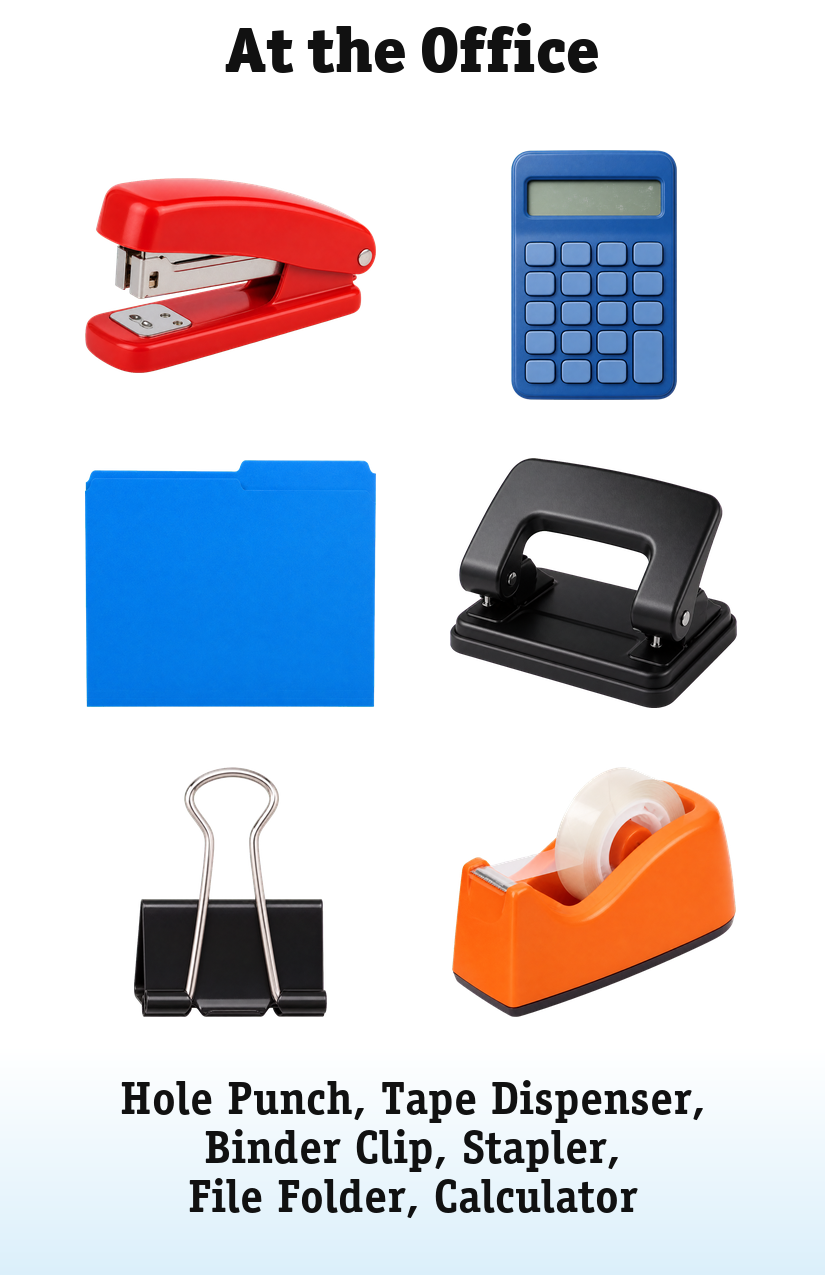
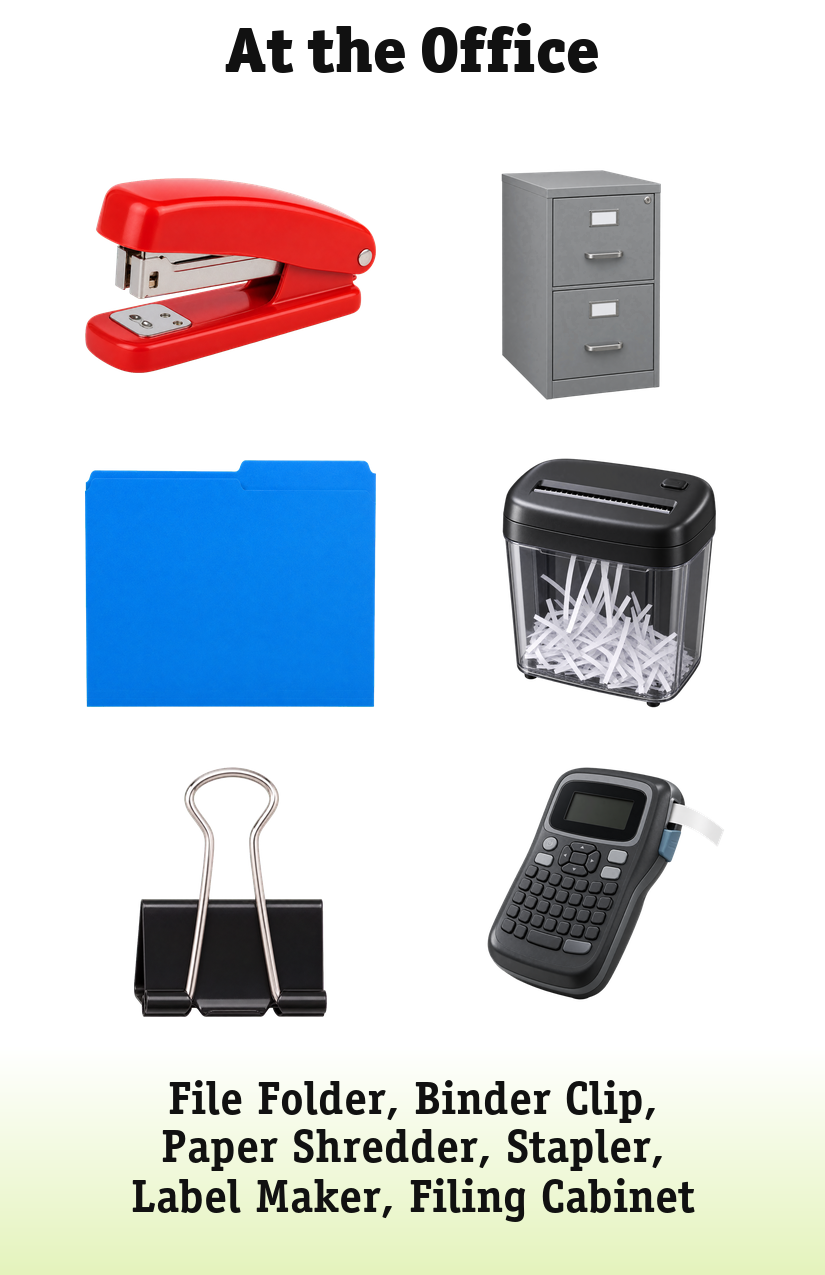
Commit in-progress Picture This edits and sync the landing page
Working-tree changes committed as they stood so the branch can take a
merge from org/main — the uncommitted files were blocking the pull
outright, before any content conflict came into it.

Picture This game/link/question data and pages 085/086 are the ongoing
card rebuild. index.html here already matched org/main byte for byte.

Claude-Session: https://claude.ai/code/session_019uNjeWfsbS5W4spBhMEGyB

Changed region(s): [[0.0, 0.8259, 1.0, 1.0], [0.5455, 0.0918, 0.9091, 0.5506], [0.5455, 0.5812, 0.9091, 0.7953]]

diff --git a/picture-this/game-data.js b/picture-this/game-data.js
@@ -338,11 +338,11 @@ window.PICTURE_THIS_GAME_DATA = {
   ],
   "at-the-office": [
     "Stapler",
-    "Calculator",
+    "Filing Cabinet",
     "File Folder",
-    "Hole Punch",
+    "Paper Shredder",
     "Binder Clip",
-    "Tape Dispenser"
+    "Label Maker"
   ],
   "under-the-sea": [
     "Dolphin",
@@ -1406,6 +1406,74 @@ window.PICTURE_THIS_GAME_DATA = {
 window.PICTURE_THIS_GAME_META = {
   "schema_version": 1,
   "cards": {
+    "at-the-office": {
+      "title": "At the Office",
+      "category_answers": [
+        "At the Office",
+        "Office Equipment",
+        "Office Supplies"
+      ],
+      "tags": [
+        "office",
+        "work",
+        "paper"
+      ],
+      "items": [
+        {
+          "id": "stapler",
+          "label": "Stapler",
+          "answers": ["Stapler"]
+        },
+        {
+          "id": "filing-cabinet",
+          "label": "Filing Cabinet",
+          "answers": ["Filing Cabinet", "File Cabinet"]
+        },
+        {
+          "id": "file-folder",
+          "label": "File Folder",
+          "answers": ["File Folder", "Folder"]
+        },
+        {
+          "id": "paper-shredder",
+          "label": "Paper Shredder",
+          "answers": ["Paper Shredder", "Shredder"]
+        },
+        {
+          "id": "binder-clip",
+          "label": "Binder Clip",
+          "answers": ["Binder Clip"]
+        },
+        {
+          "id": "label-maker",
+          "label": "Label Maker",
+          "answers": ["Label Maker", "Labelling Machine", "Labeling Machine"]
+        }
+      ],
+      "links": [
+        {
+          "word": "fasteners",
+          "answers": ["fasteners", "fastener", "fastening"],
+          "items": ["stapler", "binder-clip"],
+          "explanation": "The stapler and binder clip are the only two office items shown specifically made to fasten sheets of paper together.",
+          "audit": "exclusive-among-six-v1"
+        },
+        {
+          "word": "filing",
+          "answers": ["filing", "file"],
+          "items": ["filing-cabinet", "file-folder"],
+          "explanation": "The filing cabinet and file folder are the only two items shown specifically made for filing documents.",
+          "audit": "exclusive-among-six-v1"
+        },
+        {
+          "word": "electric",
+          "answers": ["electric", "powered"],
+          "items": ["paper-shredder", "label-maker"],
+          "explanation": "The paper shredder and label maker are the only two electrically powered office machines shown.",
+          "audit": "exclusive-among-six-v1"
+        }
+      ]
+    },
     "houseplants": {
       "title": "Houseplants",
       "category_answers": [

diff --git a/picture-this/link-data.js b/picture-this/link-data.js
@@ -97,7 +97,7 @@ window.PICTURE_THIS_LINK_DATA = {
     pictureThisLink("screening", [0,5], "The suitcase and metal detector are the only two items shown directly joined in baggage screening.", ["security"]),
     pictureThisLink("luggage", [0,3], "The suitcase and luggage cart are the only two items shown directly joined by luggage transport.", ["baggage"])
   ],
-  "at-the-office": [pictureThisLink("piercing", [0,3], "The stapler and hole punch are the only two tools shown that pierce paper during normal use.", ["pierce", "puncturing"])],
+  "at-the-office": [],
   "under-the-sea": [
     pictureThisLink("tentacles", [2,4], "The octopus and jellyfish are the only two animals shown with tentacles.", ["tentacle"]),
     pictureThisLink("spines", [3,5], "The seahorse and starfish are the only two animals shown with hard, visibly spiny body surfaces.", ["spiny"])
@@ -392,10 +392,7 @@ const auditedLinkAdditions = {
     pictureThisLink("curls", [4,5], "Hair rollers and curling iron are the only two salon tools shown specifically designed to create curls."),
     pictureThisLink("washing", [1,2], "Shampoo and salon chair are the only two items shown directly joined at a salon hair-washing station.")
   ],
-  "at-the-office": [
-    pictureThisLink("blue", [1,2], "Calculator and file folder are the only two office items shown predominantly blue."),
-    pictureThisLink("black", [3,4], "Hole punch and binder clip are the only two office items shown predominantly black.")
-  ],
+  "at-the-office": [],
   "under-the-sea": [pictureThisLink("streamlined", [0,1], "Dolphin and shark are the only two large swimmers shown with strongly streamlined fish-like bodies.")],
   "at-the-library": [
     pictureThisLink("circulation", [0,5], "Library card and return bin are the only two items shown specifically used in borrowing and returning library materials."),

diff --git a/picture-this/question-data.js b/picture-this/question-data.js
@@ -1851,12 +1851,12 @@ window.PICTURE_THIS_QUESTION_DATA = {
   },
   "at-the-office": {
     "questions": [
-      "Which items help organize papers?",
-      "Which item can help with numbers? What can it calculate?",
-      "Which of these items have you used at school or work?",
-      "How could you use a stapler and a file folder together?",
-      "What other objects are useful in an office?",
-      "Imagine you are setting up a new office. Which supplies would you buy first?"
+      "Which items fasten, store, destroy, or label paper?",
+      "Which item is tallest? Which is smallest?",
+      "Which of these office items have you used?",
+      "How could the file folder and filing cabinet be used together?",
+      "What other equipment is useful in an office?",
+      "If you were setting up an office, which three items would you buy first? Why?"
     ],
     "positions": [
       12.43,
@@ -1868,28 +1868,28 @@ window.PICTURE_THIS_QUESTION_DATA = {
     ],
     "endpoints": [
       {
-        "x": 31.52,
+        "x": 69.45,
         "y": 16.98
       },
       {
-        "x": 90.06,
+        "x": 35.76,
         "y": 26.98
       },
       {
-        "x": 69.58,
-        "y": 37.33
+        "x": 37.82,
+        "y": 37.69
       },
       {
-        "x": 65.09,
-        "y": 48.04
+        "x": 89.09,
+        "y": 48.0
       },
       {
-        "x": 36.85,
+        "x": 43.64,
         "y": 58.0
       },
       {
-        "x": 46.67,
-        "y": 72.67
+        "x": 51.03,
+        "y": 73.02
       }
     ]
   },

diff --git a/index.html b/index.html
@@ -1074,6 +1074,14 @@
         category: "Vocabulary"
       },
       {
+        href: "/whos-this/",
+        icon: "🪪",
+        title: "Who's This?",
+        desc: "Two students, one phone. An identity card appears — one asks the four present-tense questions, the other answers from the card, then the roles swap.",
+        badge: "Speaking · Pair Activity · 30 Profiles",
+        category: "ESL Pair Activity"
+      },
+      {
         href: "/picture-this/",
         icon: "🃏",
         title: "Picture This!",
@@ -1096,14 +1104,6 @@
         desc: "A visual, levelled pair activity for practising reflective listening in English.",
         badge: "ESL · Pair Activity",
         category: "ESL Pair Activity"
-      },
-      {
-        href: "/ruorators/",
-        icon: "🎤",
-        title: "RU Orators",
-        desc: "Speaking and storytelling resources for oral communication practice.",
-        badge: "Speaking",
-        category: "Speaking"
       },
       {
         href: "/american-fisherman/",

diff --git a/qr/index.html b/qr/index.html
@@ -1096,12 +1096,12 @@
         category: "ESL Pair Activity"
       },
       {
-        href: "/ruorators/",
-        icon: "🎤",
-        title: "RU Orators",
-        desc: "Speaking and storytelling resources for oral communication practice.",
-        badge: "Speaking",
-        category: "Speaking"
+        href: "/whos-this/",
+        icon: "🪪",
+        title: "Who's This?",
+        desc: "Two students, one phone. An identity card appears — one asks the four present-tense questions, the other answers from the card, then the roles swap.",
+        badge: "Speaking · Pair Activity · 30 Profiles",
+        category: "ESL Pair Activity"
       },
       {
         href: "/american-fisherman/",

diff --git a/replit.md b/replit.md
@@ -17,7 +17,7 @@ Serves on port 5000.
 - `narratives/` — narrative image sets
 - `stories/` — PDF story collection
 - `ecclesiastes/` — audio + image pages
-- `american-fisherman/`, `busy-pictures/`, `cross-cultural-coms/`, `ecclesiastes/`, `good-bird/`, `hingsha/`, `kindness-repentence/`, `mezban/`, `north-end/`, `reflecting-listening/`, `ruorators/` — additional subpages
+- `american-fisherman/`, `busy-pictures/`, `cross-cultural-coms/`, `ecclesiastes/`, `good-bird/`, `hingsha/`, `kindness-repentence/`, `mezban/`, `north-end/`, `reflecting-listening/`, `whos-this/` — additional subpages
 
 ## Custom Domain
 To connect your own domain, publish the Replit app (Deploy) and configure the custom domain in the deployment settings.
